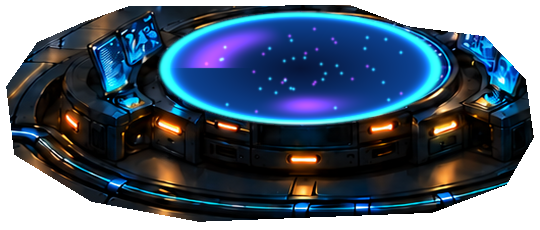
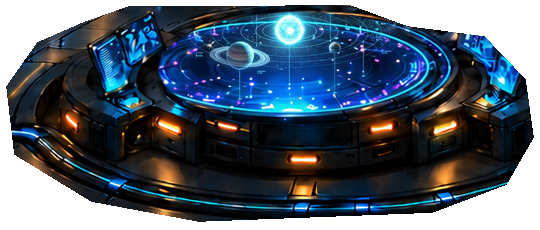
feat(kevin): replace programmatic gradient overlay with authentic native sci-fi concept art asset

Changed region(s): [[0.2667, 0.0304, 0.8296, 0.5478]]

diff --git a/webview-ui/src/ductor/starshipV10KevinMotion.ts b/webview-ui/src/ductor/starshipV10KevinMotion.ts
@@ -548,46 +548,6 @@ function drawSemanticMapContext(
   ctx.save();
   clipToKevinStarMap(ctx);
 
-  // 1. Holographic projector aura / floor emitter beam matching ship bridge lighting
-  ctx.save();
-  ctx.globalCompositeOperation = 'screen';
-  
-  // Ambient cyan beam base
-  const beam = ctx.createRadialGradient(SUN_X, SUN_Y, 2, SUN_X, SUN_Y, 135);
-  beam.addColorStop(0, 'rgba(0, 215, 255, 0.16)');
-  beam.addColorStop(0.4, 'rgba(0, 160, 220, 0.08)');
-  beam.addColorStop(0.75, 'rgba(0, 80, 160, 0.03)');
-  beam.addColorStop(1, 'rgba(0, 20, 80, 0)');
-  ctx.fillStyle = beam;
-  ctx.beginPath();
-  ctx.ellipse(SUN_X, SUN_Y, 145, 145 * ORBIT_Y_SCALE, 0, 0, Math.PI * 2);
-  ctx.fill();
-
-  // Volumetric amber nebular clouds matching window black hole
-  const hazeCount = 6;
-  for (let h = 0; h < hazeCount; h += 1) {
-    const hAngle = h * (Math.PI * 2 / hazeCount) + timeSec * 0.02;
-    const hDist = 35 + (h % 3) * 25;
-    const hx = SUN_X + Math.cos(hAngle) * hDist;
-    const hy = SUN_Y + Math.sin(hAngle) * hDist * ORBIT_Y_SCALE;
-    const hr = 28 + (h % 2) * 16;
-    
-    const cloud = ctx.createRadialGradient(hx, hy, 2, hx, hy, hr);
-    if (h % 2 === 0) {
-      cloud.addColorStop(0, 'rgba(217, 70, 239, 0.12)');
-      cloud.addColorStop(0.6, 'rgba(147, 51, 234, 0.04)');
-    } else {
-      cloud.addColorStop(0, 'rgba(0, 240, 255, 0.14)');
-      cloud.addColorStop(0.6, 'rgba(14, 165, 233, 0.04)');
-    }
-    cloud.addColorStop(1, 'rgba(0,0,0,0)');
-    ctx.fillStyle = cloud;
-    ctx.beginPath();
-    ctx.ellipse(hx, hy, hr, hr * ORBIT_Y_SCALE, 0, 0, Math.PI * 2);
-    ctx.fill();
-  }
-  ctx.restore();
-
   drawSemanticHazeLayer(ctx, timeSec, working);
   drawSemanticDustLayer(ctx, timeSec, working);
   drawSemanticStarGridLayer(ctx, working);
